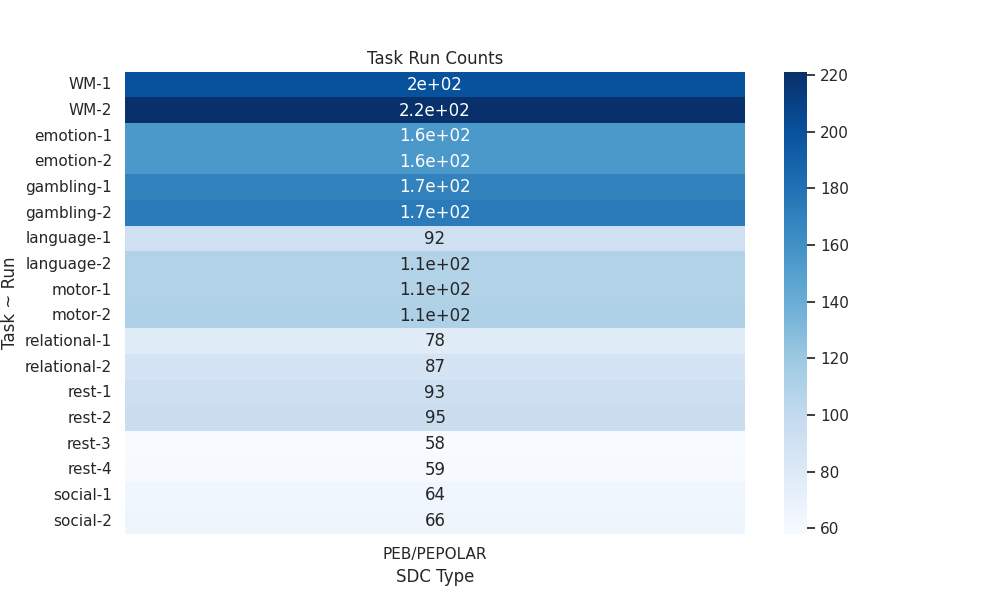
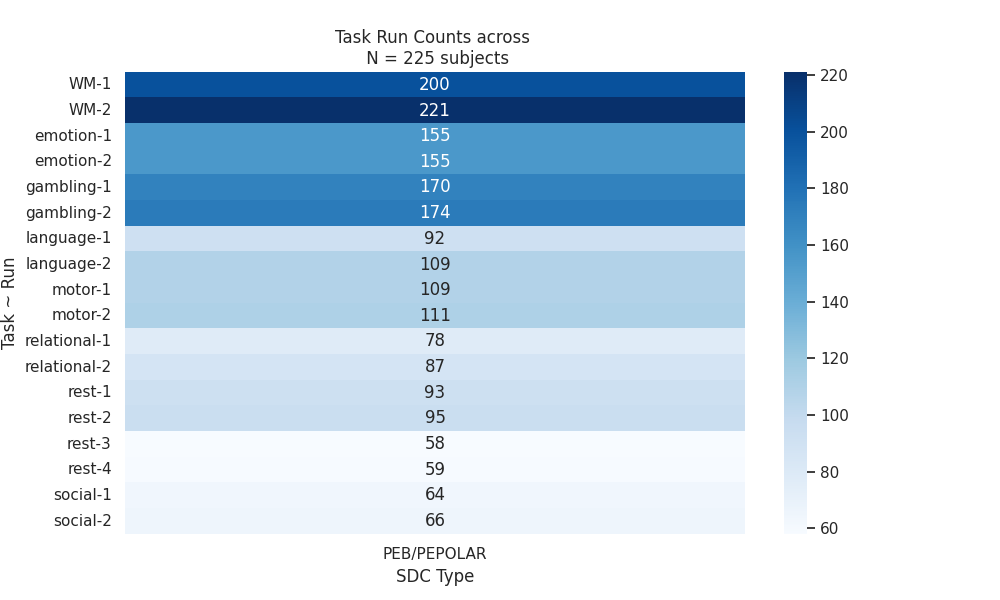
pilot imgs

Changed region(s): [[0.341, 0.03, 0.527, 0.36], [0.403, 0.42, 0.465, 0.54]]

diff --git a/scripts/completion_report.py b/scripts/completion_report.py
@@ -10,7 +10,7 @@ input_dir = './'
 tmp = './tmp'
 output_dir = '../imgs'
 grp_fold = './mriqc/group_mriqc/out_group'
-qc_out = './scripts/fmriprep/post_preprocessing_checks/qc_sdc-similarity'
+qc_out = './fmriprep/post_preprocessing_checks/qc_sdc-similarity'
 
 os.makedirs(output_dir, exist_ok=True)
 os.makedirs(tmp, exist_ok=True)
@@ -78,6 +78,7 @@ for preprocessing_type, group_data in df.groupby('Type'):
 # Create Summary Plots of Group Derivatives MRIQC
 
 for img_key in plot_metrics.keys():
+    print("Making Group Deriv MRIQC Plots")
     pull_cols = plot_metrics[img_key]
     pull_cols = ['bids_name'] + plot_metrics[img_key]
     df = pd.read_csv(f'{grp_fold}/group_{img_key}.tsv', sep='\t', usecols=pull_cols)
@@ -122,6 +123,7 @@ for img_key in plot_metrics.keys():
 
 # summaries peristimulus plots
 if os.path.exists(f'{qc_out}/3T_check-peristim.tsv'):
+    print("Making Peristimulus Summary Plots")
     peristim_df = pd.read_csv(f'{qc_out}/3T_check-peristim.tsv', sep = '\t', 
                               names=['sub','sess','task','region','peak_tr','peak_mean', 'peak_se']).drop_duplicates(subset='sub')
     peri_sub_n = len(peristim_df)
@@ -156,10 +158,12 @@ if os.path.exists(f'{qc_out}/3T_check-peristim.tsv'):
     plt.suptitle(f'Max TR (.720sec) from Peristimulus Plots across N = {peri_sub_n}', fontsize=14)
     plt.savefig(f'{output_dir}/peristim_distributions.png')
     plt.close() 
-
+else:
+    print(f'\tFILE: \n{qc_out}/3T_check-peristim.tsv doesnt exist')
 
 # summaries qc-similarity estimates and fmriprep reports
-if os.path.exists(f'{qc_out}/3T_check-peristim.tsv'):
+if os.path.exists(f'{qc_out}/3T_check-html-similarity.tsv'):
+    print("Making Similarity Summary Plots")
     fs_sim_df = pd.read_csv(f'{qc_out}/3T_check-html-similarity.tsv', sep = '\t', 
                           names=['sub','sess','task','run','event_files', 'sdc_type', 'sim.freesurf_anat', 'sim.anat-bold'])
     sub_n = len(fs_sim_df.drop_duplicates(subset='sub'))
@@ -176,14 +180,14 @@ if os.path.exists(f'{qc_out}/3T_check-peristim.tsv'):
     sns.barplot(x=task_event_exists.index, y=task_event_exists.values, palette="Set2")
     plt.title(f'Percent of Non-Rest Task Runs w/ Event Files \n across N = {sub_n} subjects')
     plt.xlabel('')
-    plt.xticks(rotation=45, ha='right')
+    plt.xticks(rotation=45, ha='center')
     plt.ylabel('% w/ File')
 
     # Distribution of `sdc_type` by Task
     plt.subplot(132)
     sns.countplot(data=fs_sim_df, x='task', hue='sdc_type', palette="Set2")
     plt.title(f'Type SDC \n per Run')
-    plt.xticks(rotation=45, ha='right')
+    plt.xticks(rotation=45, ha='center')
     plt.xlabel('')
     plt.ylabel('Count')
 
@@ -214,3 +218,5 @@ if os.path.exists(f'{qc_out}/3T_check-peristim.tsv'):
     plt.ylabel('Task ~ Run')
     plt.savefig(f'{output_dir}/fmriprep_task-run-sdc_counts.png')
     plt.close()
+else:
+    print(f'\t FILE: {qc_out}/3T_check-html-similarity.tsv doesnt exist')
